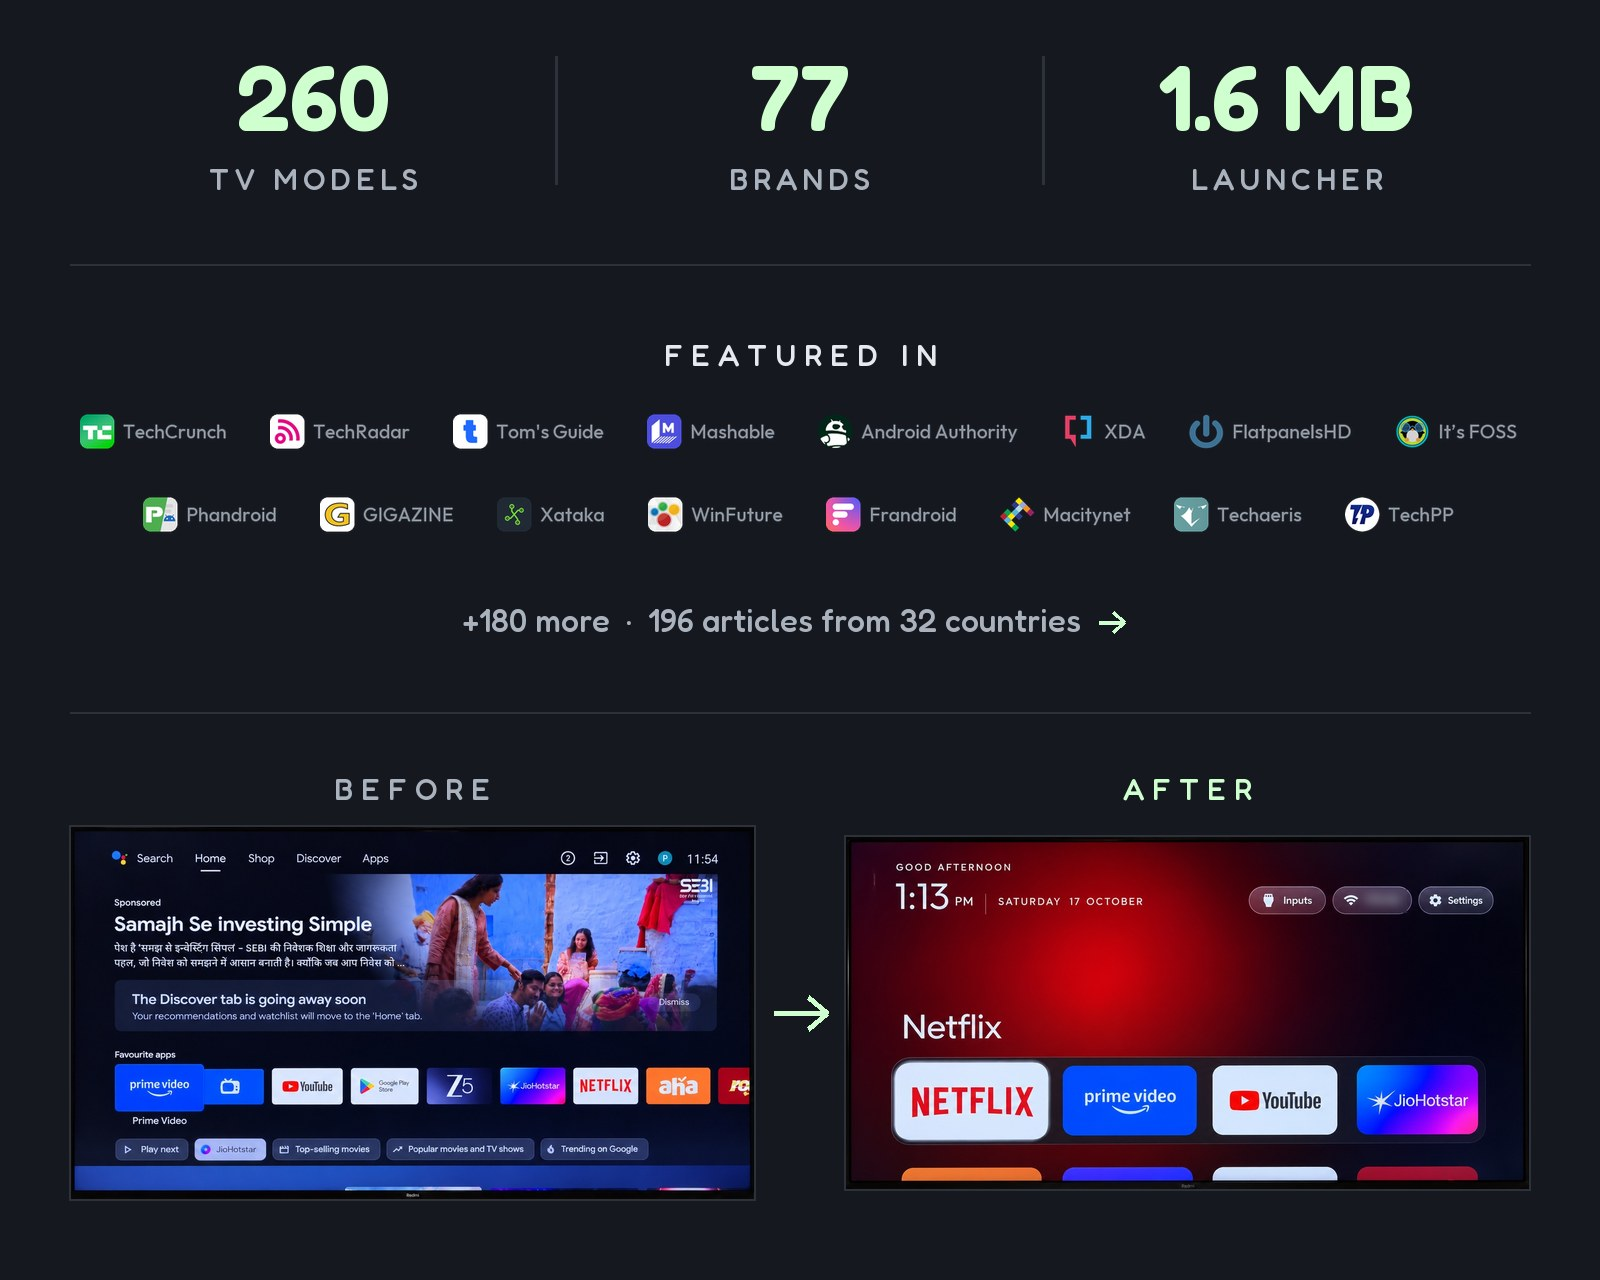
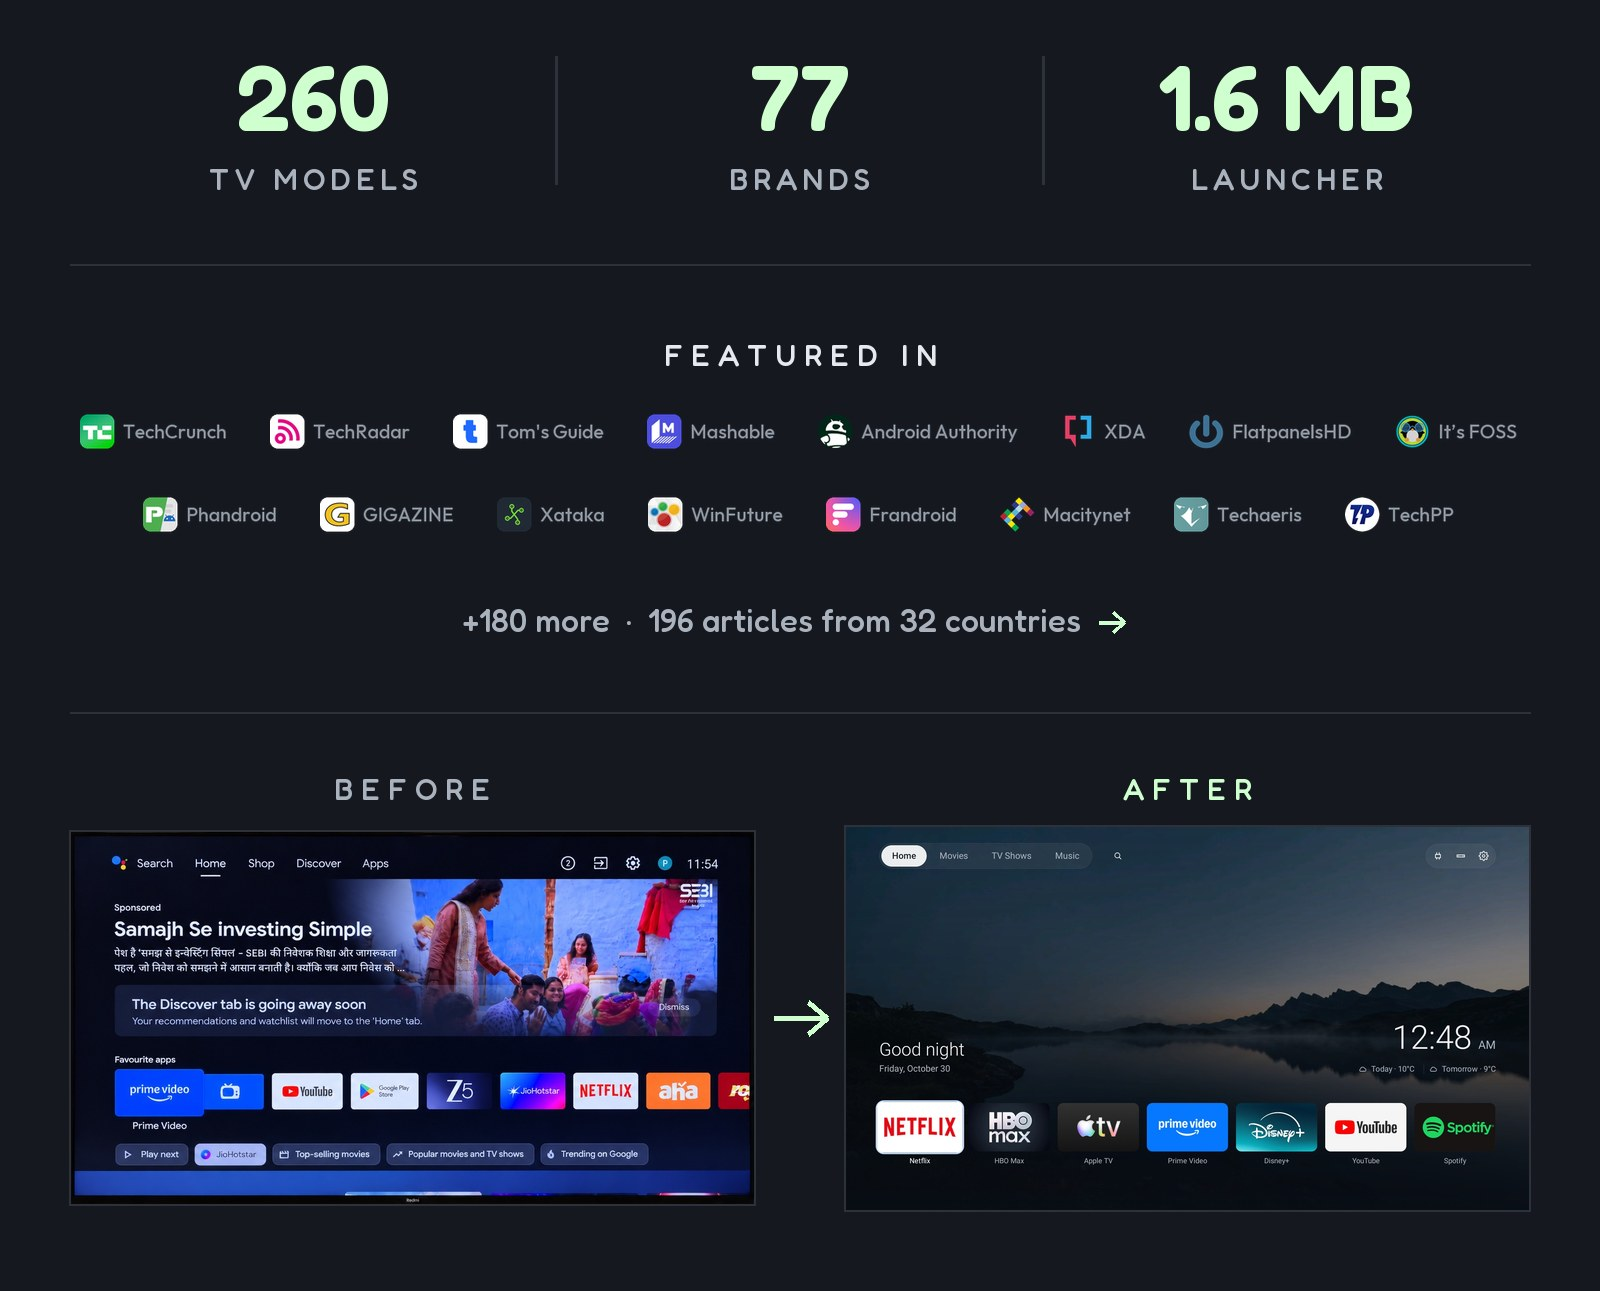
docs: V1 is done; real-TV results, TV screenshots, a redrawn card and the V2 plan (#14)
* docs: V1 is done; real-TV results, TV screenshots, a redrawn card and the V2 plan

README.md shows V1 on the TCL BeyondTV and marks M1 to M8 and M1b done, with a V2 phase table. docs/rework.md records the V2 decisions, the real-TV results (cold start 1.9 to 2.1 s against 2.8 s, 47 % janky frames on Home) and the Settings key finding. The README card's "after" is now a TV screenshot of the new Home, so tools/readme_card.py no longer crops or blurs it.

* docs: the TMDB token is each builder's own v4 read token, sent as a Bearer header (#14)

---------

diff --git a/tools/readme_card.py b/tools/readme_card.py
@@ -8,7 +8,7 @@ import sys
 
 # See readme_stats.py: Pillow lives in the optional requirements file, so name it rather than crash.
 try:
-    from PIL import Image, ImageDraw, ImageFilter, ImageFont
+    from PIL import Image, ImageDraw, ImageFont
 except ImportError:
     sys.exit("readme_card.py needs Pillow: tools/venv/bin/pip install -r tools/requirements-perf.txt")
 
@@ -21,11 +21,10 @@ def spaced(d, cx, y, t, font, sp, fill):
     w = sum(d.textlength(c, font=font) for c in t) + sp * (len(t) - 1); x = cx - w / 2
     for c in t: d.text((x, y), c, font=font, fill=fill); x += d.textlength(c, font=font) + sp
 
-# the TV screens, cropped to the bezel; the Wi-Fi name on the after shot is blurred
+# the TV screens: the stock "before" photo cropped to its bezel; the "after" is a 1920×1080 screenshot of the new
+# Home (tools/tv.py --screenshot), which needs no crop, and no blur since its nav shows Wi-Fi as an icon only
 before = Image.open("docs/stock-home.jpg").convert("RGB").crop((130, 216, 1317, 864))
 after = Image.open("docs/new-home.jpg").convert("RGB")
-box = (1150, 236, 1240, 280); after.paste(after.crop(box).filter(ImageFilter.GaussianBlur(9)), box)
-after = after.crop((203, 138, 1467, 792))
 PAD, ARROW = 70, 90
 tw = (W - 2 * PAD - ARROW) // 2
 shots = [im.resize((tw, round(im.height * tw / im.width)), Image.LANCZOS) for im in (before, after)]

diff --git a/docs/rework.md b/docs/rework.md
@@ -66,13 +66,16 @@ Settled with the project lead on 2026-10-28.
 | Search, after review (2026-10-29) | Backspace is Back on every screen, Search included: on the full results it brings the keyboard back with the query kept, with the keyboard showing it goes Home, and only the on-screen ⌫ key deletes. Leaving Search for another tab (nav, Back, the remote's Home) clears the query, filter and full results; a title or person opened from it keeps them. Recent searches keep four, not five. Search has no guide line. The full results' six columns stay title-safe (96 px left, 98 px right); the start page's rows may still run off the right edge. The prototype and its README changed with it. |
 | M1b scope | Decided 2026-10-29. **Theme docs frozen:** `themes/README.md`, `docs/switches.md` and `docs/sky.md` stay as a V2 reference, marked as not read by the current launcher; only the tests that compare them with `config.xml` go. **Workflows retired:** `docs/workflows/translation.md`, `theme.md`, `launcher-switch.md`, `addon.md` and `docs/modules.md` are deleted and dropped from AGENTS.md, with a note that V2 may take them from upstream ([Gathin23/cleanyourtv](https://github.com/Gathin23/cleanyourtv)). **README:** the sections that describe the old launcher are rewritten for the new one. **`docs/card.jpg` and `docs/stats.png`:** redrawn with the tools, after fixing the language count. M1b runs now, before the real-TV run. |
 | Open questions, settled (2026-10-29) | `subscribed_services` stays on `tests/test_switches.py`'s "screenshots wanted" list until a TV screenshot exists. `.github/maintainer/MAINTAINER.md` allows the INTERNET permission for the fork's network features and pauses the 512 KB APK gate; `CONTRIBUTING.md` allows limited network access; `PROMPT.md` describes the new UI. The APK stays at about 1.6 MB for now, to be measured again once the mock artwork goes (BACKLOG.md, From M1). `LastOpened` stays, unread, with a BACKLOG entry for a future use. |
+| V2 plan | Decided 2026-10-30. Phases in order: 0 V1 wrap-up (finished first), 1 real catalogue (TMDB), 2 real availability, 3 accounts, 4 on-TV settings; work in a phase may start early where it doesn't wait on another. **Prices:** real rent and buy prices are a priority, from a second source alongside TMDB's providers (researched, see [V2](#v2)). **TMDB:** each builder uses their own TMDB API read access token (v4, sent as a `Bearer` header, not a v3 `api_key` query parameter), put in `launcher/tv.properties` as `tmdb_api_key`. That file is gitignored: never paste a token into a commit, issue or PR. Without it the launcher keeps the mock catalogue. **Designs:** screens without a design are drafted in Figma as a few options, the project lead picks, then they go into `design_preview/` and the launcher. |
 
 ## Open questions
 
 Raise these when they become relevant; don't settle them alone.
 
-- **The remote's Settings key** on the TCL still goes to TCL's own handler, not the launcher's Settings dropdown.
-  Check it in the real-TV run, then decide whether a key helper is worth it.
+- **The remote's Settings key** on the TCL opens TCL's own settings panel, not the launcher's quick-settings dropdown
+  (checked on the TV, 2026-10-30). The launcher can take it over with the Home key helper (`HOME_KEY_SERVICE=1` and
+  `settings_key_scancodes`, read from `getevent -lt` on the TV), at the cost the PROMPT.md notes describe for key
+  helpers. Keep TCL's panel, or map the key?
 
 ## Real-TV run
 
@@ -117,6 +120,42 @@ before any scripted check.
 
 **After:** close ADB as AGENTS.md requires: USB and network debugging off, authorisations revoked, a reboot, then `tools/adb-closed.py <tv ip>` must report the port closed. Record the results and any new decisions here.
 
+### Results (2026-10-30, `main` at 0212b6a4)
+
+The project lead tried every screen by hand on the evening of 2026-10-29 ("it looks good") and merged V1. The
+scripted part ran the next night on the same build:
+
+| Measure | V1 | Before |
+|---|---|---|
+| Cold start, `am start -W` TotalTime after a force stop (3 runs) | 1.9–2.1 s | 2.8 s (M1), 2.7 s (old launcher) |
+| Cold start, `tools/bench.py` WaitTime p50 / p95 | 609 / 626 ms | |
+| Key response p50 / p95 | 21 / 31 ms | |
+| Movement p50 (key to the end of the focus animation) | 197 ms | |
+| Janky frames while pressing keys on Home | 47 % (337 of 712) | a V2 follow-up |
+| Return to Home p50 / p95 | 71 / 235 ms | |
+| Idle CPU, whole TV / launcher | 2.9 % / 0.1 % | |
+| PSS after a cold start / after visiting every page | 22 MB / 41 MB | 11 MB (M1, no artwork) |
+
+- **Screenshots:** `shots/v1/` (gitignored); Home, Movies and Search are now in README.md and Home is the README
+  card's "after".
+- **Settings key:** TCL's own settings panel (Open questions).
+- **Not checked on the TV:** Wi-Fi off (it takes ADB with it; checked on the emulator in the integration pass).
+- **ADB:** the project lead chose to close it. The TV was off before the port could be checked, so
+  `tools/adb-closed.py <tv ip>` still needs a run with the TV on and debugging off.
+
+## V2
+
+The plan from the V2 plan decision above. Each phase follows the same workflow as V1: one PR per topic, stacked,
+emulator first, the real TV in a batch with the project lead.
+
+| Phase | Scope | Waits on |
+|---|---|---|
+| 0 · V1 wrap-up | Real-TV results and docs; follow-ups from the integration pass and the TV (nav focus on the page's own tab, the tile menu over the greeting, screen-reader state, jank on Home) | Nothing |
+| 1 · Real catalogue | TMDB titles, artwork, cast, episodes, More like this, trailers and search, cached on disk; the mock art leaves the APK, then the size gate is reconsidered | The TMDB token (there) |
+| 2 · Real availability | TMDB watch providers for SE, deep links through Wikidata, the household's services, real rent and buy prices | The price source (researched), the services picker design |
+| 3 · Accounts | TMDB sign-in by QR, My list, Seen and Favorites synced, Household and Friends from TMDB lists, start empty instead of the mock seed | The first-run and sign-in designs |
+| 4 · On-TV settings | Weather city and unit, the new Launcher settings page, switching between saved Wi-Fi networks | The Launcher settings and picker designs |
+| Later | Two regions (SE and US), Music, Explore pages, voice search, the screensaver, themes, add-ons, Watch Next, more languages | A design or a decision |
 ## Milestones
 
 | | Scope | Done when |

diff --git a/README.md b/README.md
@@ -11,13 +11,13 @@ take on new dependencies. Analytics and telemetry are still out, and Home must k
 
 | | |
 |---|---|
-| ![Home: greeting, clock, weather and the app row](docs/rework/prototype-home.jpg) | ![Movies: the household's watchlists as a grid, with filters and Pick for me](docs/rework/prototype-movies.jpg) |
+| ![Home on the TV: greeting, clock, weather and the app row](docs/rework/tv-home.jpg) | ![Movies on the TV: the household's watchlists as a grid, with filters and Pick for me](docs/rework/tv-movies.jpg) |
 | *Home: greeting, clock, weather and the app row* | *Movies: the household's watchlists, filters and Pick for me* |
-| ![Title preview: Watch, My list, Seen, Favorite and Trailer, with tabs below](docs/rework/prototype-preview.jpg) | ![Search: the 6×6 keyboard, suggestions and results as you type](docs/rework/prototype-search.jpg) |
+| ![Title preview: Watch, My list, Seen, Favorite and Trailer, with tabs below](docs/rework/emulator-preview.jpg) | ![Search on the TV: the 6×6 keyboard, suggestions and results as you type](docs/rework/tv-search.jpg) |
 | *Title preview: Watch, My list, Seen, Favorite, Trailer and tabs* | *Search: fuzzy matching, results as you type* |
 
-These come from the web prototype in [`design_preview/`](design_preview/), with mock data. Screenshots from the TV
-replace them as each screen lands.
+V1 on the TCL BeyondTV (Android TV 9), except the title preview, which is from the Android TV 9 emulator. The
+catalogue, availability and prices are still mock data (see [BACKLOG.md](BACKLOG.md)); V2 makes them real.
 
 ## Status
 
@@ -25,15 +25,25 @@ replace them as each screen lands.
 |---|---|---|
 | Design | The web prototype and its spec, [`design_preview/README.md`](design_preview/README.md) | Done (#1) |
 | M0 · Tooling | JDK 17, Android SDK, an Android TV 9 emulator; the current launcher built and run as a baseline | Done (#4) |
-| M1 · Foundation | New Home activity replacing the old UI; design tokens, nav, screen stack, Back, focus memory, top-bar dropdowns | In review (#5) |
-| M1b · V1 cleanup | `Config` and `config.xml` cut to what the new launcher reads; old-UI docs, tools and tests; the README's old launcher sections | In review |
-| M2 · Home | Clock, greeting, weather, the app row with its hold-OK menu, Inputs, Shortcuts | In review (#6) |
-| M3 · Data layer | Household store, mock catalogue behind an interface, image cache, offline behaviour | In review (#7) |
-| M4 · Movies and TV Shows | List chips, grid, Filters drawer, empty states | In review (#8) |
-| M5 · Title preview | Popup, actions, five tabs, rent/buy dialog, person page | In review (#9) |
-| M6 · Search | Keyboard, fuzzy matching, suggestions, results, no matches | In review (#10) |
-| M7 · Pick for me | Setup and results | In review (#11) |
-| M8 · Finish | Stubs, docs, then the real TV | In review; the real-TV run is next ([checklist](docs/rework.md#real-tv-run)) |
+| M1 · Foundation | New Home activity replacing the old UI; design tokens, nav, screen stack, Back, focus memory, top-bar dropdowns | Done (#5) |
+| M1b · V1 cleanup | `Config` and `config.xml` cut to what the new launcher reads; old-UI docs, tools and tests; the README's old launcher sections | Done (#13) |
+| M2 · Home | Clock, greeting, weather, the app row with its hold-OK menu, Inputs, Shortcuts | Done (#6) |
+| M3 · Data layer | Household store, mock catalogue behind an interface, image cache, offline behaviour | Done (#7) |
+| M4 · Movies and TV Shows | List chips, grid, Filters drawer, empty states | Done (#8) |
+| M5 · Title preview | Popup, actions, five tabs, rent/buy dialog, person page | Done (#9) |
+| M6 · Search | Keyboard, fuzzy matching, suggestions, results, no matches | Done (#10) |
+| M7 · Pick for me | Setup and results | Done (#11) |
+| M8 · Finish | Stubs, docs, then the real TV | Done (#12); real-TV run 2026-10-30 ([results](docs/rework.md#real-tv-run)) |
+
+**V2** (planned with the project lead, 2026-10-30; [docs/rework.md](docs/rework.md#v2)):
+
+| Phase | What | Status |
+|---|---|---|
+| 0 · V1 wrap-up | Real-TV results, docs, V1 follow-ups found in testing | In progress |
+| 1 · Real catalogue | TMDB for titles, artwork, cast, episodes, More like this, trailers and search, cached on the TV | In progress |
+| 2 · Real availability | TMDB watch providers for SE, links that open the title, the household's services, real rent and buy prices | Researching prices |
+| 3 · Accounts | TMDB sign-in by QR, My list and Seen synced, Household and Friends from TMDB lists | Planned |
+| 4 · On-TV settings | Weather city and unit, the new Launcher settings page, switching Wi-Fi | In progress |
 
 What is mocked or deferred, and why: [BACKLOG.md](BACKLOG.md).
 

diff --git a/BACKLOG.md b/BACKLOG.md
@@ -108,18 +108,18 @@ From the old launcher; not in V1 by decision.
 - **Network icon state:** the nav shows Wi-Fi, Ethernet or Wi-Fi crossed out when offline. The old pill could also
   tint by state (`wifi_status_color`, `wifi_status_warnings`); not designed for the new nav.
 - **README card:** since M1b `tools/gen_tables.py` no longer counts languages, and `docs/card.jpg` and
-  `docs/stats.png` show TV models, brands and the launcher's size (1.6 MB, mostly mock artwork). The card's "after"
-  photo, `docs/new-home.jpg`, still shows the old Home: replace it with a TV photo of the new Home in the real-TV
-  run, then redraw the card ([docs/rework.md](docs/rework.md#real-tv-run)).
+  `docs/stats.png` show TV models, brands and the launcher's size (1.6 MB, mostly mock artwork). Its "after",
+  `docs/new-home.jpg`, is a screenshot of the new Home from the TV (2026-10-30). Redraw the stat strip when the APK
+  size changes (Phase 1 removes the mock art).
 - **APK size:** about 1.6 MB, almost all of it the bundled mock artwork (1.35 MB); the 512 KB gate is paused in this
   fork. When the real catalogue replaces the bundled art, measure the APK again and decide whether the gate comes
   back, and at what size (project lead, 2026-10-29).
 - **Last opened:** `LastOpened` notes when Home or All Apps last opened each app (on the TV only, no permission).
   Nothing reads it since the old Home's "Last opened" line went in M1. Wanted: a use for it, for example ordering
   All Apps or the Home row by recent use, once that is designed.
-- **Cold start:** Home took 2.8 s (`am start -W`, TotalTime) after a force stop on the TCL BeyondTV, 0.3 s for the
-  activity itself. Measure it against 2.7 with `tools/bench.py` ([perf-ab](docs/workflows/perf-ab.md)) before M2
-  adds the real Home page.
+- **Cold start and jank:** V1 measured 1.9–2.1 s (TotalTime) against M1's 2.8 s and the old launcher's 2.7 s, but 47 %
+  of frames were janky while pressing keys on Home ([docs/rework.md](docs/rework.md#results-2026-10-30-main-at-0212b6a4)).
+  Phase 0 looks for the cause; measure again on the TV with `tools/bench.py` ([perf-ab](docs/workflows/perf-ab.md)).
 
 ## From M2
 
